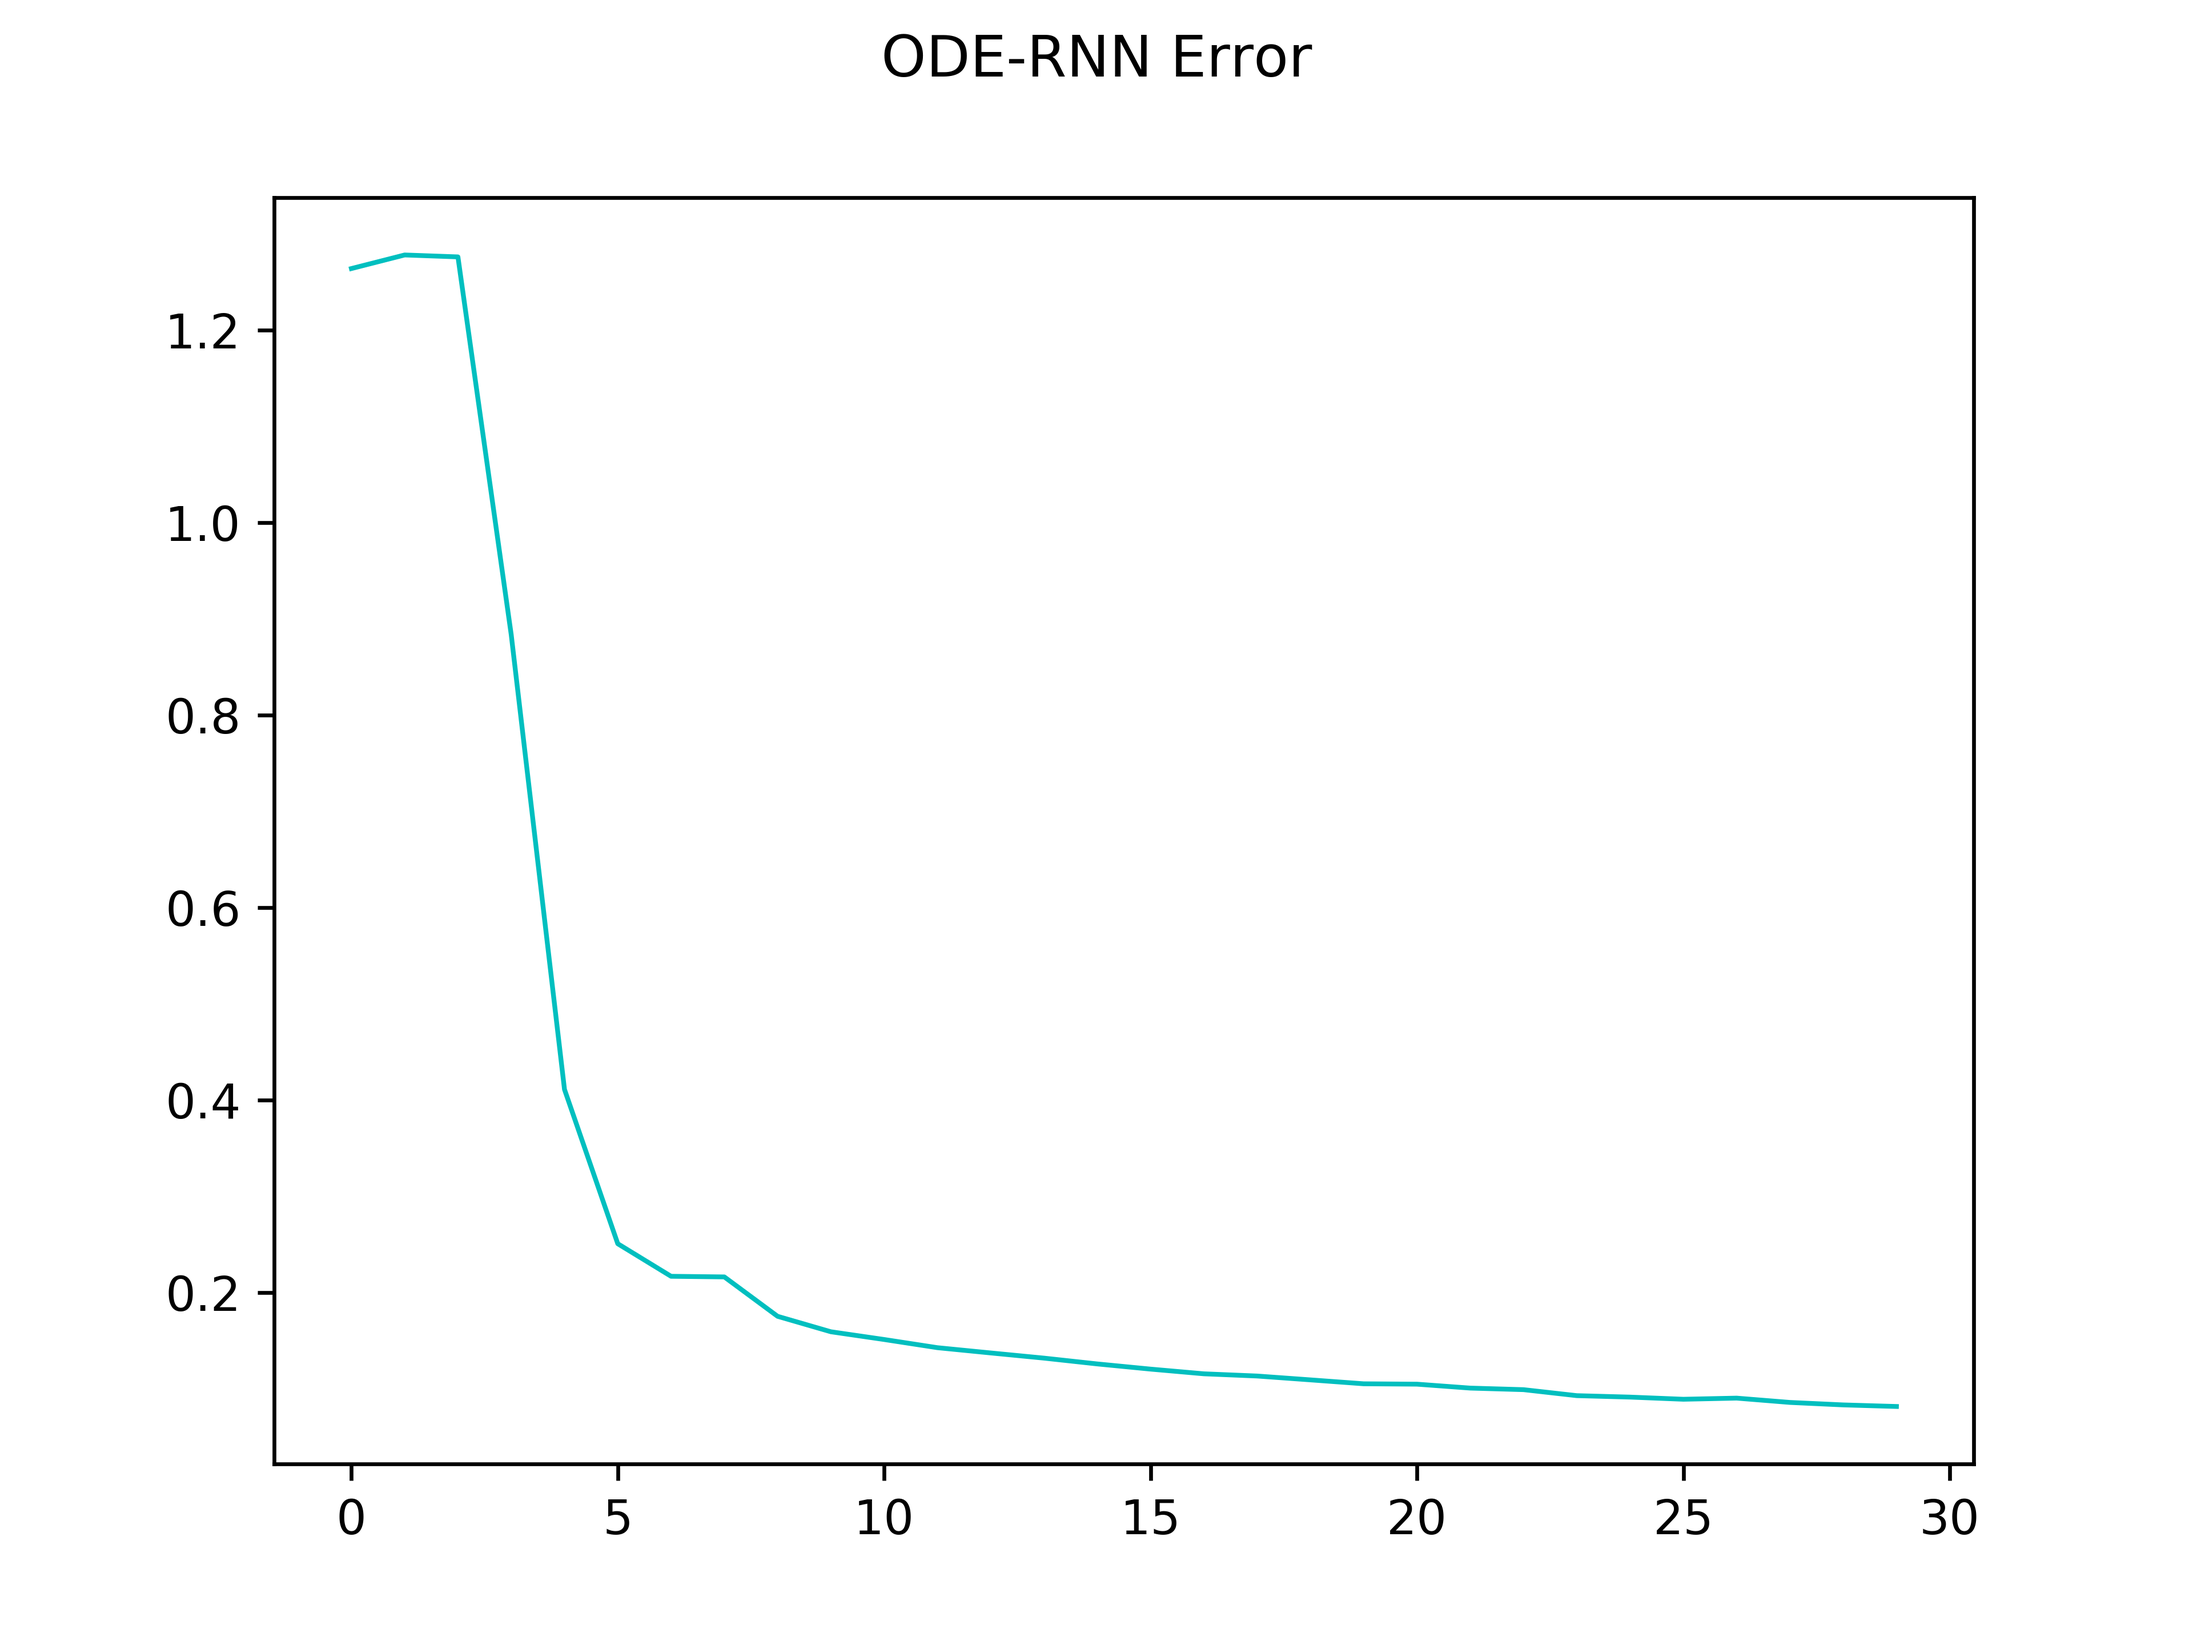
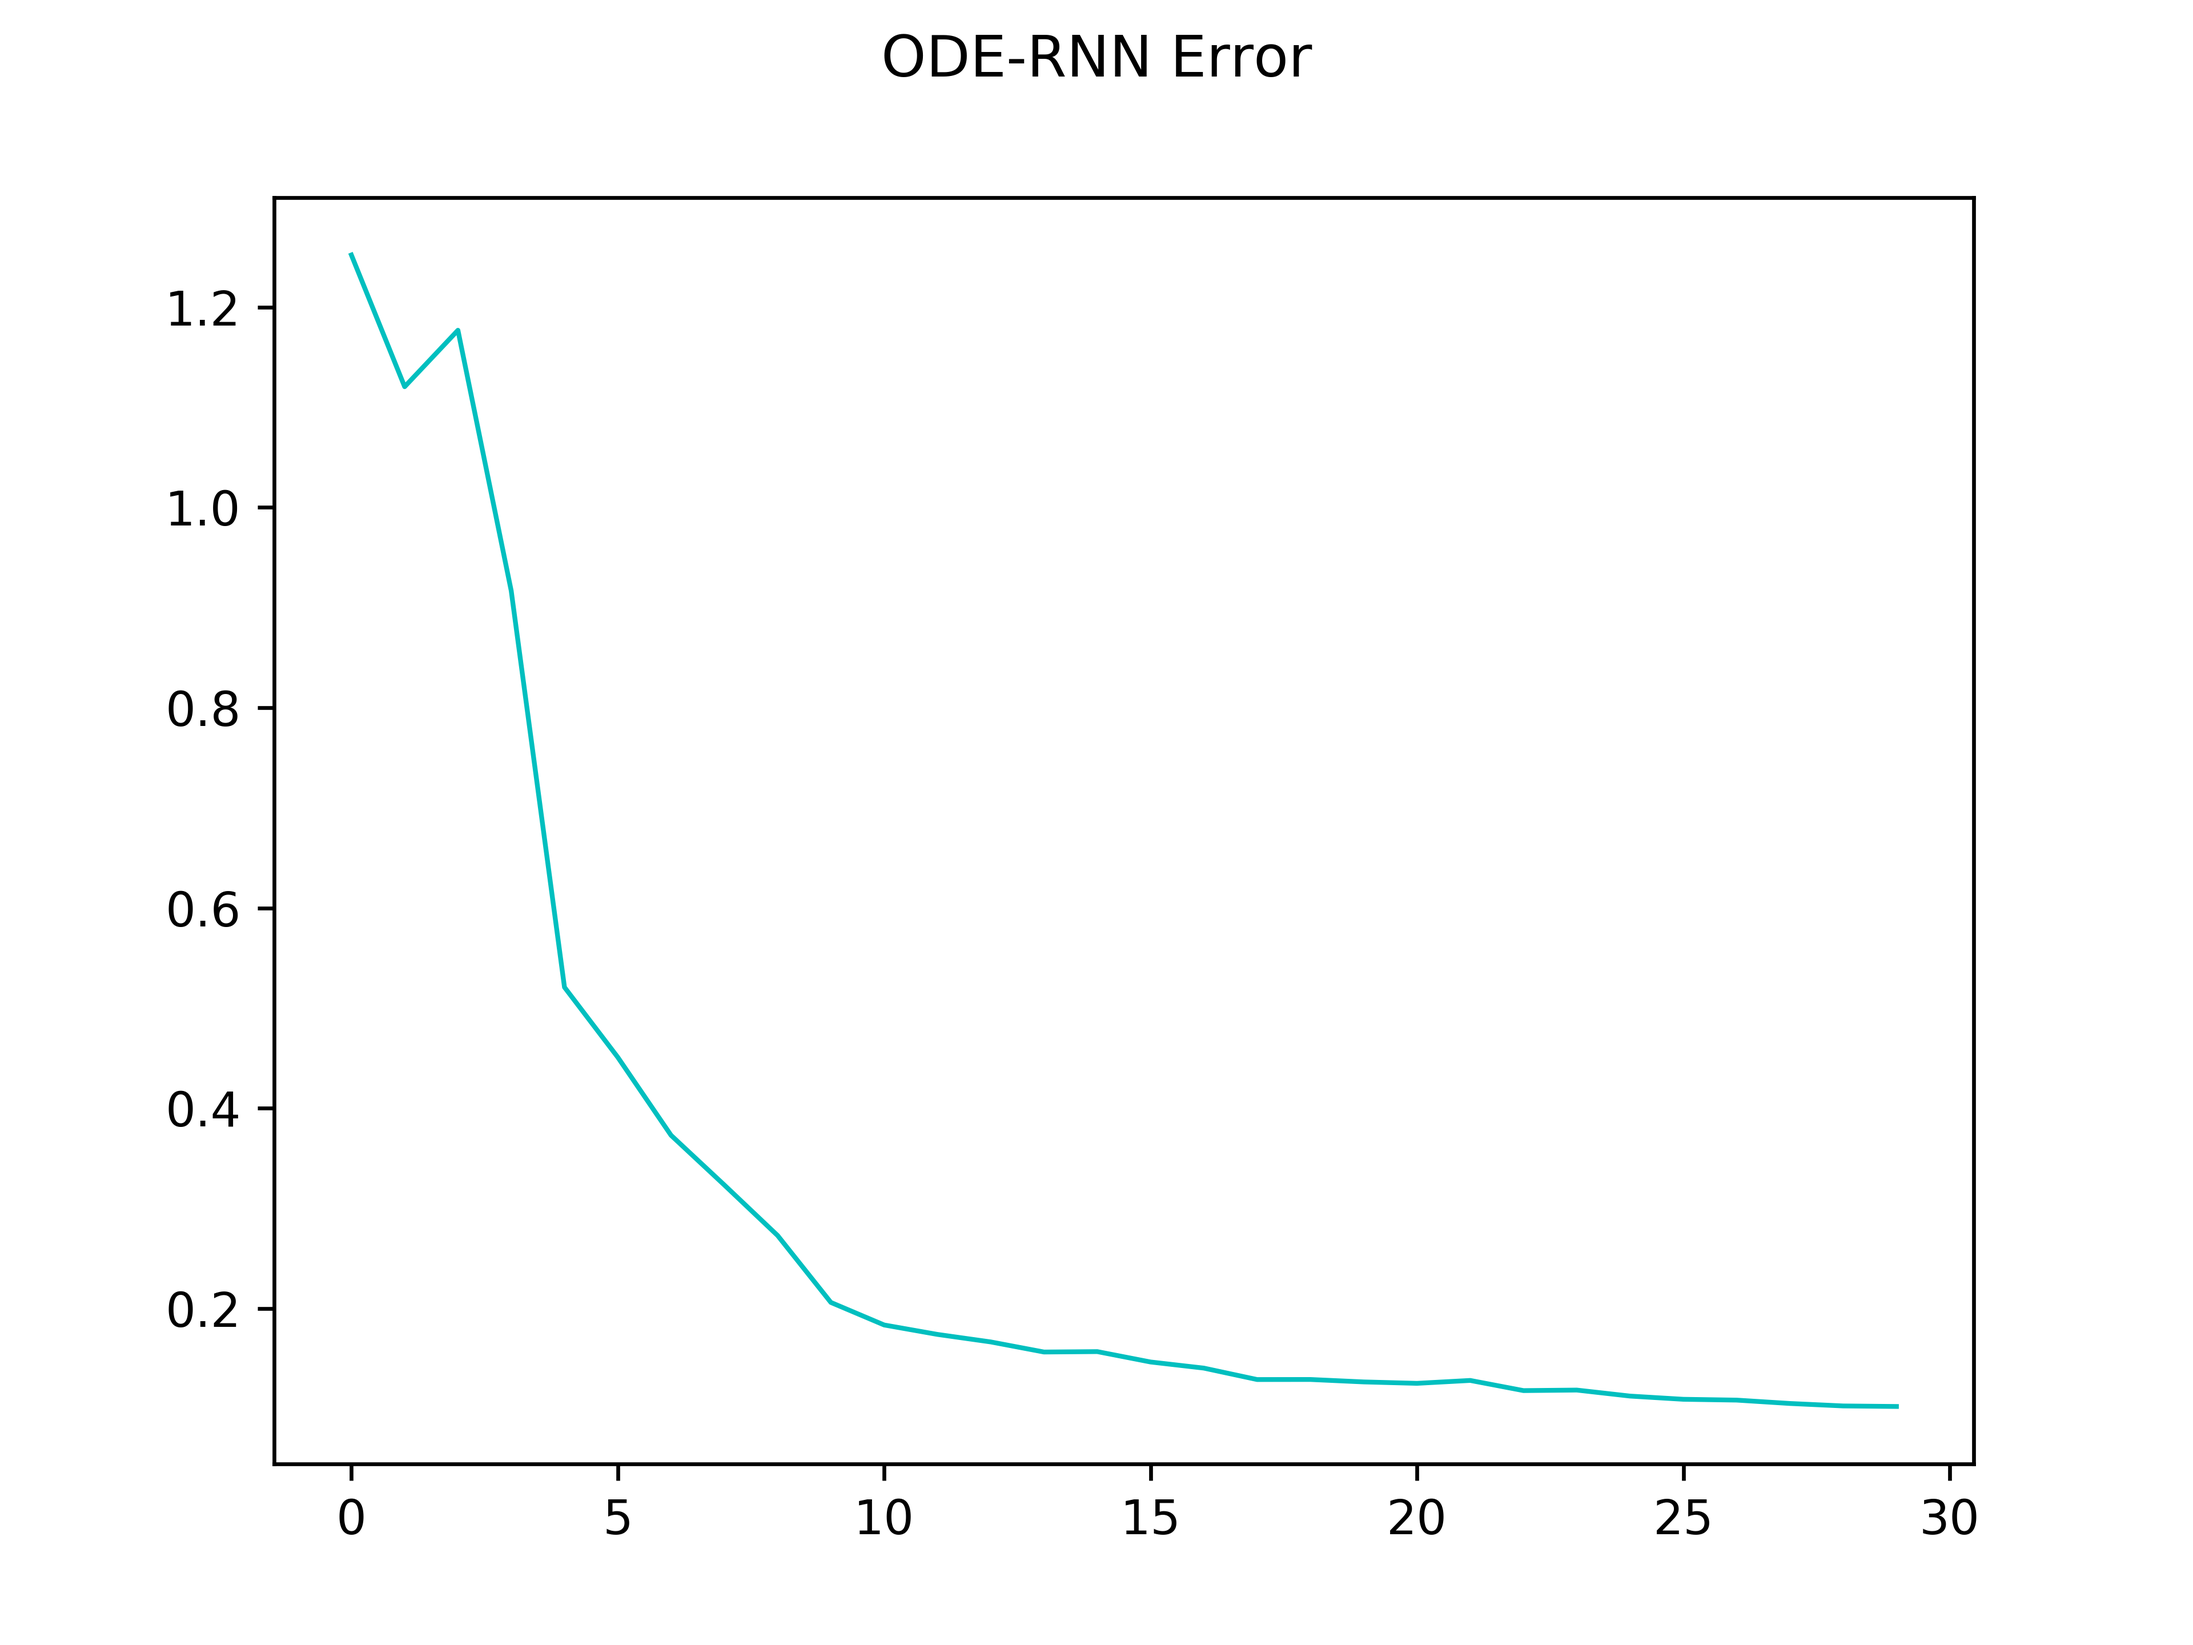
Minor Bug Fix

diff --git a/fig6.py b/fig6.py
@@ -53,6 +53,7 @@ def plot_cmap(model):
             sns.heatmap(weight, vmax=vmax, vmin=vmin, cmap=cmap, square=True, cbar=False, ax=ax_cmap[i])
 
     fig.savefig("./output/ode_rnn_cmap.png", dpi=600, transparent=True)
+    plt.close()
 
     return fig, ax_cmap
 
@@ -62,6 +63,7 @@ def plot_loss(epochs, loss):
     fig.suptitle('ODE-RNN Error')
     ax_loss.plot(list(range(epochs)), loss, linewidth=1, color='c')
     fig.savefig('./output/training.png', dpi=600, transparent=True)
+    plt.close()
     return fig, ax_loss
 
 def build_model(epochs, data_gen, device_params, method, time_steps):
@@ -91,8 +93,10 @@ def get_average_performance(iters, epochs, device_params, method, time_steps):
         model, output, loss = build_model(epochs, data_gen, device_params, method, time_steps)
         loss_history.append(loss)
 
-        for i in range(len(loss)):
-            loss_avg[i] += loss[i]
+        for j in range(len(loss)):
+            loss_avg[j] += loss[j]
+
+        print('Iter {:04d}'.format(i))
 
     for i in range(len(loss_avg)):
         loss_avg[i] = (loss_avg[i]/iters)
@@ -132,7 +136,7 @@ device_params = {"Vdd": 0.2,
                  "viability": 0.05,
 }
 
-get_average_performance(1, 30, device_params, "rk4", 1)
+get_average_performance(5, 30, device_params, "rk4", 1)
 
 # ode_rnn = GRU_RNN(2, 6, 2, device_params)
 # losses_ode_rnn, output_ode_rnn = gru_train(ode_rnn, data_gen, epochs)
